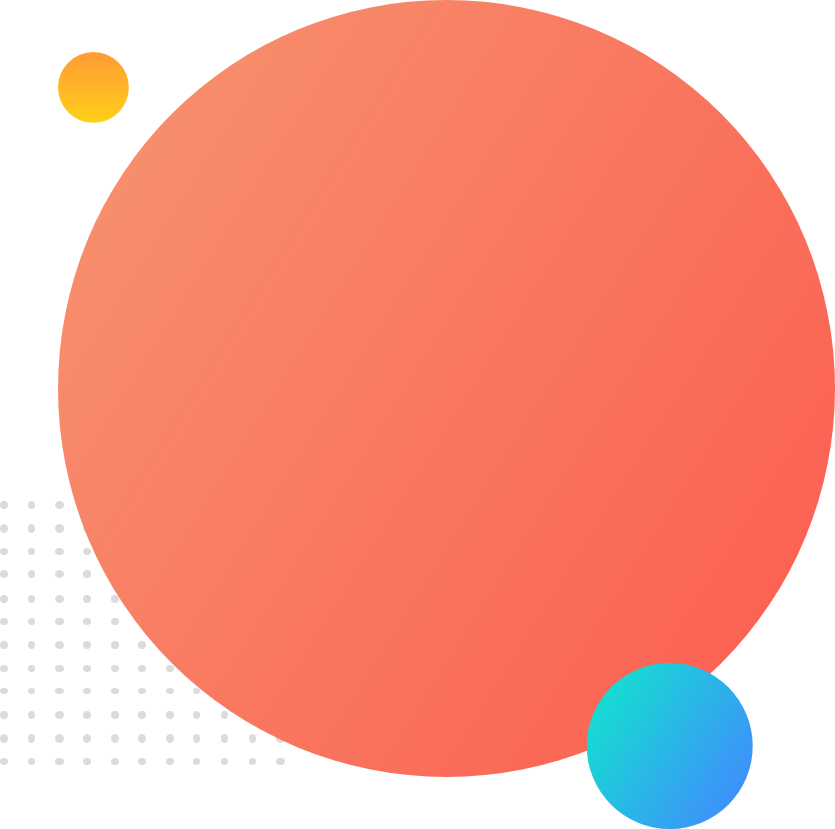
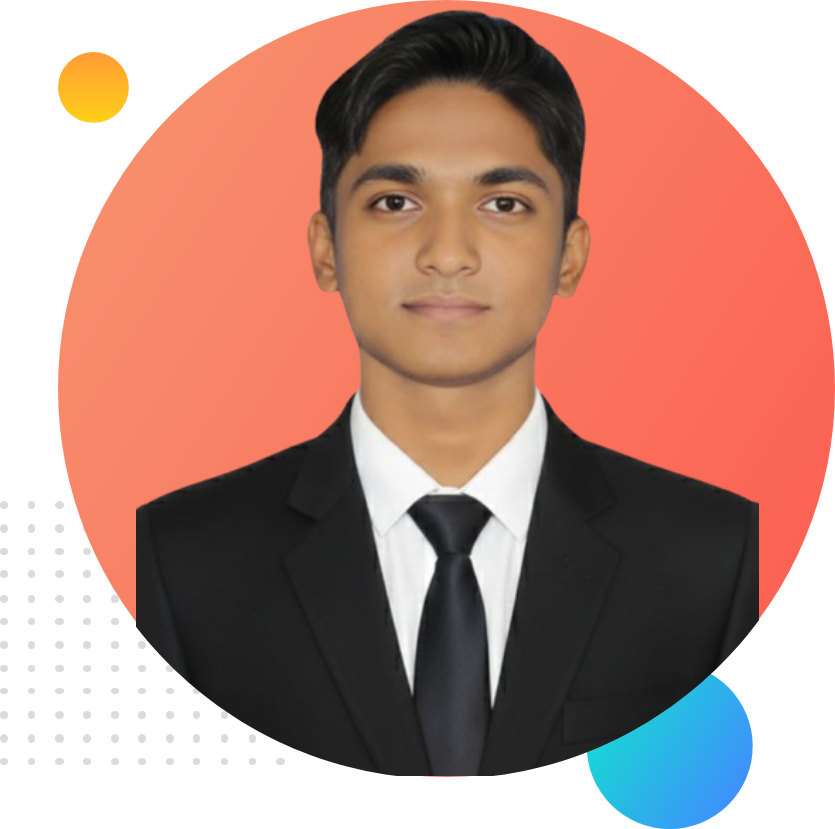
first part added

diff --git a/index.html b/index.html
@@ -1,0 +1,30 @@
+<!DOCTYPE html>
+<html lang="en">
+<head>
+    <meta charset="UTF-8">
+    <meta name="viewport" content="width=device-width, initial-scale=1.0">
+    <title>Adnan Website</title>
+<link rel="preconnect" href="https://fonts.googleapis.com">
+<link rel="preconnect" href="https://fonts.gstatic.com" crossorigin>
+<link href="https://fonts.googleapis.com/css2?family=Poppins:ital,wght@0,100;0,200;0,300;0,400;0,500;0,600;0,700;0,800;0,900;1,100;1,200;1,300;1,400;1,500;1,600;1,700;1,800;1,900&display=swap" rel="stylesheet">
+    <link rel="stylesheet" href="style.css">
+</head>
+<body>
+    <srction>
+        <div class="half-width">
+            <h1>Welcome To</h1>
+        <h1><span class="name">Adnan's</span> Website</h1>
+        <h3>Professional Web Developer</h3>
+         <p>I turn ideas into interactive digital experiences by writing clean, 
+            efficient code and designing user-friendly interfaces. My focus is on building 
+            fast, responsive, and visually appealing websites that work seamlessly across all 
+            devices. I believe good design and smart development go hand in hand to create
+             meaningful web solutions. From concept to code, my goal is to make the web simple, 
+             powerful, and effective.</p>        
+             </div>
+        <div class="half-width">
+            <img src="images/my-bg.png" alt="">
+        </div>
+    </srction>
+</body>
+</html>

diff --git a/style.css b/style.css
@@ -1,0 +1,22 @@
+body
+{
+ font-family: "Poppins", sans-serif;
+  
+}
+
+h1{
+    font-size: 50px;
+    
+}
+.name{
+    color: orange;
+}
+.half-width{
+    width: 40%;
+    float: left;
+    margin-left: 5%;
+    padding-left: 2%;
+}
+.half-width img{
+    width: 100%;
+}
